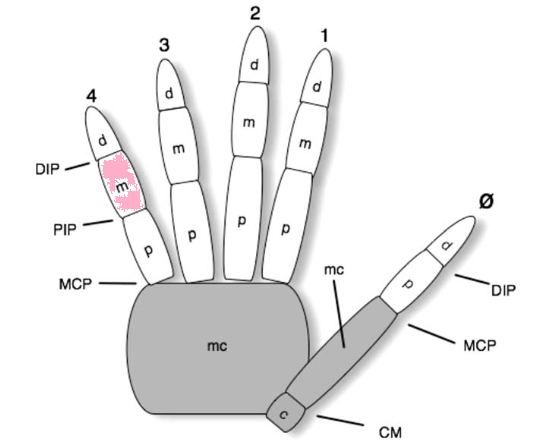
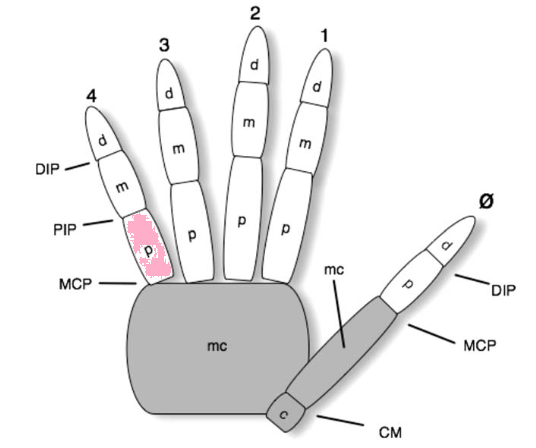
Minor changes
- Fix problem with mislabelling of pinky finger slots
- Added tool tips for slots with default settings

Changed region(s): [[0.1791, 0.3438, 0.3284, 0.625]]

diff --git a/slpa/main.py b/slpa/main.py
@@ -112,122 +112,6 @@ class ConfigLayout(QGridLayout):
         self.hand2 = hand2
         self.handShapeMatch.clicked.connect(self.hand2.match)
 
-
-class HandShapeLayout(QVBoxLayout):
-
-    def __init__(self, parent = None, hand = None, transcription = None):
-        QVBoxLayout.__init__(self)#, parent)
-        self.handTitle = QLabel(hand)
-        self.addWidget(self.handTitle)
-        self.transcription = transcription
-        self.defineWidgets()
-        self.updateButton = QPushButton('Update from transcription')
-        self.updateButton.clicked.connect(self.updateFromTranscription)
-        self.addWidget(self.updateButton)
-
-    def defineWidgets(self):
-
-        for finger in Fingers:
-            setattr(self, finger.name+'Widget', QComboBox())
-            w = getattr(self, finger.name+'Widget')
-            if finger.features is None:
-                w.addItem(finger.name, 'Alternative')
-            else:
-                for triple in finger.features:
-                    triple = ','.join(triple)
-                    w.addItem(triple)
-            self.addWidget(w)
-
-    def updateFromTranscription(self):
-        problems = list()
-        indexConfig = self.transcription.slot4.text()
-        indexConfig = ','.join(indexConfig)
-        search = self.indexWidget.findText(indexConfig)
-        if search == -1:
-            problems.append('index (slot 4)')
-        else:
-            self.indexWidget.setCurrentText(indexConfig)
-
-        middleConfig = self.transcription.slot5b.text()
-        middleConfig = ','.join(middleConfig)
-        search = self.middleWidget.findText(middleConfig)
-        if search == -1:
-            problems.append('middle (slot 5)')
-        else:
-            self.middleWidget.setCurrentText(middleConfig)
-
-        ringConfig = self.transcription.slot6b.text()
-        ringConfig = ','.join(ringConfig)
-        search = self.ringWidget.findText(ringConfig)
-        if search == -1:
-            problems.append('ring (slot 6)')
-        else:
-            self.ringWidget.setCurrentText(ringConfig)
-
-        pinkyConfig = self.transcription.slot7b.text()
-        pinkyConfig = ','.join(pinkyConfig)
-        search = self.pinkyWidget.findText(pinkyConfig)
-        if search == -1:
-            problems.append('pinky (slot 7)')
-        else:
-            self.pinkyWidget.setCurrentText(pinkyConfig)
-
-        if problems:
-            alert = QMessageBox()
-            alert.setWindowTitle('Transcription error')
-            alert.setText(('There was a problem trying to update your dropdown boxes for the following fingers on '
-                    'the {} hand:\n\n'
-                    '{}\n\n'
-                    'There are several reasons why this problem may have occured:\n\n'
-                    '1.Non-standard symbols\n\n'
-                    '2.Impossible combinations\n\n'
-                    '3.Blank transcriptions\n\n'
-                    'Transcription slots without any problems have been properly updated.'.format(
-                                 'second' if isinstance(self, SecondHandShapeLayout) else 'first',
-                                 ', '.join(problems))))
-            alert.exec_()
-
-
-    def fingers(self):
-        return {'global_Widget': self.global_Widget.currentText(),
-                'thumbWidget': self.thumbWidget.currentText(),
-                'thumbAndFingerWidget': self.thumbAndFingerWidget.currentText(),
-                'indexWidget': self.indexWidget.currentText(),
-                'middleWidget': self.middleWidget.currentText(),
-                'ringWidget': self.ringWidget.currentText(),
-                'pinkyWidget': self.pinkyWidget.currentText()}
-
-    def fingerWidgets(self):
-        return [self.indexWidget, self.middleWidget, self.ringWidget, self.pinkyWidget]
-
-class SecondHandShapeLayout(HandShapeLayout):
-
-    def __init__(self, parent = None, hand = None, transcription = None, otherHand = None, otherTranscription = None):
-        HandShapeLayout.__init__(self, parent, hand, transcription)
-        self.otherHand = otherHand
-        self.transcription = transcription
-        self.otherTranscription = otherTranscription
-
-    @Slot(bool)
-    def match(self, clicked):
-        for finger,value in self.otherHand.fingers().items():
-            widget = getattr(self, finger)
-            widget.setCurrentText(value)
-
-        values = self.otherTranscription.values()
-        self.transcription.slot1.setChecked(values[0])
-        self.transcription.slot2.setText(values[1])
-        self.transcription.slot3a.setText(values[2])
-        self.transcription.slot3b.setText(values[3])
-        self.transcription.slot4.setText(values[4])
-        self.transcription.slot5a.setText(values[5])
-        self.transcription.slot5b.setText(values[6])
-        self.transcription.slot6a.setText(values[7])
-        self.transcription.slot6b.setText(values[8])
-        self.transcription.slot7a.setText(values[9])
-        self.transcription.slot7b.setText(values[10])
-
-
 class GlossLayout(QHBoxLayout):
     def __init__(self, parent = None, comboBoxes = None):
         QHBoxLayout.__init__(self)

diff --git a/slpa/transcriptions.py b/slpa/transcriptions.py
@@ -181,21 +181,27 @@ class TranscriptionSlot(QLineEdit):
         if self.num == 8:
             self.setText(NULL)
             self.setEnabled(False)
+            self.setToolTip('Slot 8. Represents the thumb. Always marked as {}.'.format(NULL))
         elif self.num == 9:
             self.setText('/')
             self.setEnabled(False)
+            self.setToolTip('Slot 9. Represents contact. Always marked as /.')
         elif self.num == 16:
             self.setText('1')
             self.setEnabled(False)
+            self.setToolTip('Slot 16. Represents index finger. Always marked as 1.')
         elif self.num == 21:
             self.setText('2')
             self.setEnabled(False)
+            self.setToolTip('Slot 21. Represents middle finger. Always marked as 2.')
         elif self.num == 26:
             self.setText('3')
             self.setEnabled(False)
+            self.setToolTip('Slot 26. Represents ring finger. Always marked as 3.')
         elif self.num == 31:
             self.setText('4')
             self.setEnabled(False)
+            self.setToolTip('Slot 31. Represents pinky finger. Always marked as 4.')
 
     def completerActivated(self, e):
         self.setText(e)
@@ -253,22 +259,22 @@ class TranscriptionInfo(QGridLayout):
 
         self.fieldTitle = QLabel('Field type')
         self.fieldTitle.setFont(titleFont)
-        self.fieldInfo = QLabel('Generic field')
+        self.fieldInfo = QLabel('None selected')
         self.fieldInfo.setFont(infoFont)
 
         self.slotNumberTitle = QLabel('Slot number')
         self.slotNumberTitle.setFont(titleFont)
-        self.slotNumberInfo = QLabel('Generic slot')
+        self.slotNumberInfo = QLabel('None selected')
         self.slotNumberInfo.setFont(infoFont)
 
         self.slotPurposeTitle = QLabel('Slot purpose')
-        self.slotPurposeInfo = QLabel('Generic purpose')
+        self.slotPurposeInfo = QLabel('None selected')
         self.slotPurposeTitle.setFont(titleFont)
         self.slotPurposeInfo.setFont(infoFont)
         self.slotPurposeInfo.setWordWrap(True)
 
         self.slotOptionsTitle = QLabel('Permitted characters')
-        self.slotOptionsInfo = QLabel('Generic characters')
+        self.slotOptionsInfo = QLabel('None selected')
         self.slotOptionsTitle.setFont(titleFont)
         self.slotOptionsInfo.setFont(infoFont)
         self.slotOptionsInfo.setWordWrap(True)
@@ -285,8 +291,8 @@ class TranscriptionInfo(QGridLayout):
         self.purposeDict = {1: 'Shows if forearm is involved',
                             2: 'Thumb oppositional positions (CM rotation)',
                             3: 'Thumb abduction/adduction(CM adduction)',
-                            4: 'Thumb DIP flexion',
-                            5: 'Thumb MCP flexion',
+                            4: 'Thumb MCP flexion',
+                            5: 'Thumb DIP flexion',
                             6: 'Thumb surface options',
                             7: 'Thumb bone options',
                             #8 always null
@@ -296,7 +302,7 @@ class TranscriptionInfo(QGridLayout):
                             12: 'Index/thumb contact',
                             13: 'Middle/thumb contact',
                             14: 'Ring/thumb contact',
-                            15: 'Pinky/thumn contact',
+                            15: 'Pinky/thumb contact',
                             #16 always 1,
                             17: 'Index MCP flexion',
                             18: 'Index PIP flexion',
@@ -358,19 +364,19 @@ class TranscriptionInfo(QGridLayout):
     @Slot(int)
     def transcriptionSlotChanged(self, e):
         if e == 1:
-            self.fieldInfo.setText('Forearm')
+            self.fieldInfo.setText('Forearm (1)')
         elif e < 6:
-            self.fieldInfo.setText('Thumb')
+            self.fieldInfo.setText('Thumb (2)')
         elif e < 16:
-            self.fieldInfo.setText('Thumb/finger contact')
+            self.fieldInfo.setText('Thumb/finger contact (3)')
         elif e < 19:
-            self.fieldInfo.setText('Index finger')
-        elif e < 24:
-            self.fieldInfo.setText('Middle finger')
+            self.fieldInfo.setText('Index finger (4)')
+        elif e < 25:
+            self.fieldInfo.setText('Middle finger (5)')
         elif e < 30:
-            self.fieldInfo.setText('Ring finger')
+            self.fieldInfo.setText('Ring finger (6)')
         else:
-            self.fieldInfo.setText('Pinky finger')
+            self.fieldInfo.setText('Pinky finger (7)')
         self.slotNumberInfo.setText(str(e))
         self.slotPurposeInfo.setText(self.purposeDict[e])
         self.slotOptionsInfo.setText(self.optionsDict[e])
